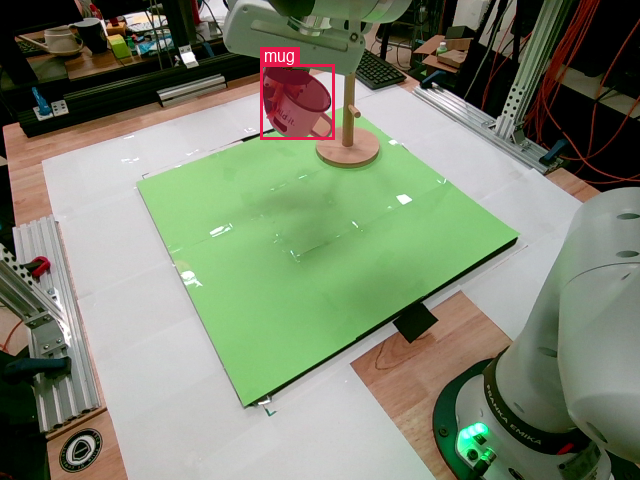
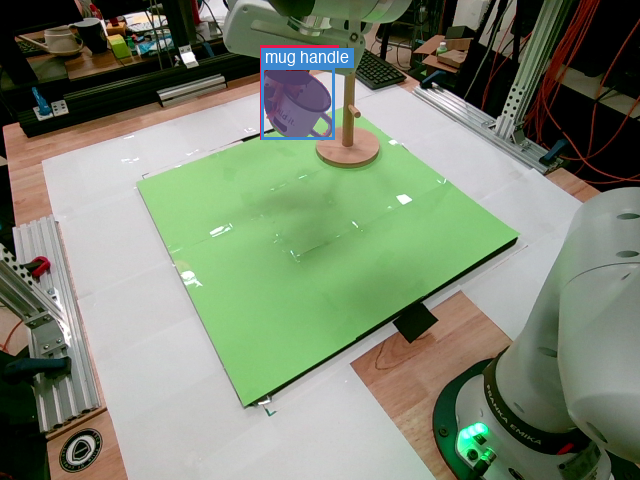
.

Changed region(s): [[0.4062, 0.0938, 0.5625, 0.3125]]

diff --git a/README.md b/README.md
@@ -1,3 +1,3 @@
 python segment_image_2.py segmentation/bob.png -o "wooden mug rack, mug" --output segmentation/bob_segm.png
 
-python segment_image_2.py segmentation/stuart.png -o "mug-body, mug-handle" --output segmentation/stuart_segm_parts.png
+python segment_image_2.py segmentation/stuart.png -o "mug body, mug handle" --output segmentation/stuart_segm_parts.png
